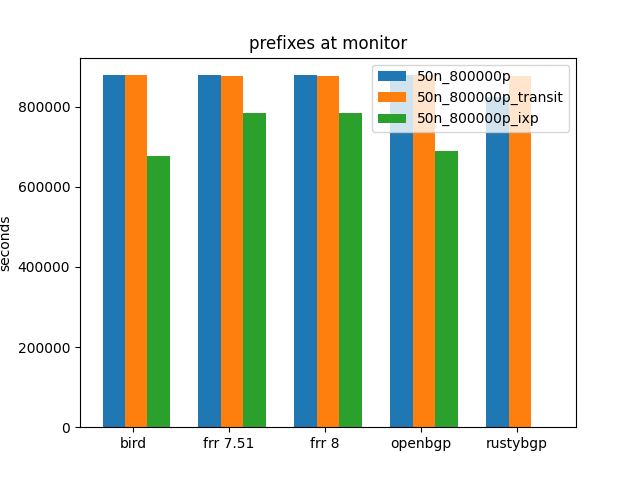
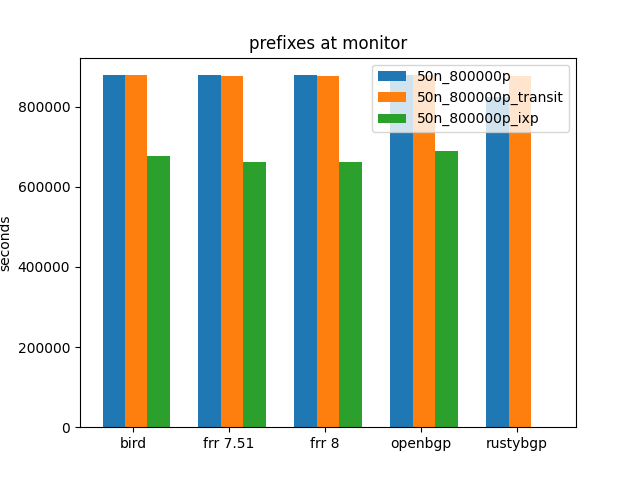
updateing bgp filtering with updated filters for frr so that output matches.

Changed region(s): [[0.375, 0.2188, 0.4375, 0.3438], [0.5312, 0.2188, 0.5625, 0.3438]]

diff --git a/_drafts/2021-11-102-bgperf-first-try-at-filtering.md b/_drafts/2021-11-102-bgperf-first-try-at-filtering.md
@@ -15,9 +15,9 @@ description: First results of testing of filter with BGP stacks to get feedback.
 
 The number one request I get for BGP Performance testing is to do filtering testing. There are several difficulties with this, and I'll discuss them below, but that is why I've put it off so long. I have some results and I'd like to see what the audience thinks about the testing methodology and if it provides the visibility that we are all hoping for.
 
-I need help. Is this the right way to represent filtering for these platforms?
+I'm not sure that what I've created tests filtering in the way that people want to see, so I'm producing results now in the hope of getting some feedback to make things better.
 
-Obviously one of the problems is trying to create filtering that can be used across all platforms and will be representative of what people are actually using. I started with https://bgpfilterguide.nlnog.net. I'm currently only using two filters that are mostly the same. The first, called "transit", is the filter that you would use if the peer was transit, and the other is called "ixp" if your peer was in your IXP. The difference between the two is that the ixp filter filters our transit ASNs. 
+Obviously one of the problems is trying to create filtering that can be used across all platforms and will be representative of what people are actually using. I started with https://bgpfilterguide.nlnog.net; below I have pointers to the specific filters I'm using. I'm currently only using two filters that are mostly the same. The first, called "transit", is the filter that you would use if the peer was transit, and the other is called "ixp" if your peer was in your IXP. The difference between the two is that the ixp filter filters our transit ASNs. 
 
 Just to refresh how to read the key: "20n_800000p_transit" means 20 neighbors, 800000 prefixes per neighbor and it's using the transit filter.
 
@@ -57,15 +57,15 @@ As discussed, I started with https://bgpfilterguide.nlnog.net and I've tried to 
 
 Of course, you have to match traffic with filters to see if they work.
 
-### not all BGP stacks filter the same
+### What filters am I using
 
-As far as I can tell, the filters for BIRD, FRRouting and OpenBGPD should be the same, so why are there different amounts of prefixes filtered? I have no idea. Please tell me if I'm dong something wrong.
 
 To look at the filters used:
 * [BIRD](https://github.com/jopietsch/bgperf/blob/490452fe947c94f9eb87e4f45bb789514f6e11b1/filters/bird.conf)
-* [FRRouting](https://github.com/jopietsch/bgperf/blob/490452fe947c94f9eb87e4f45bb789514f6e11b1/filters/frr.conf)
+* [FRRouting](https://github.com/jopietsch/bgperf/blob/49dcf42868dc88cb65f95924c28d4b25cf8ba5b0/filters/frr.conf)
+
 * [OpenBGPD](https://github.com/jopietsch/bgperf/blob/490452fe947c94f9eb87e4f45bb789514f6e11b1/filters/openbgp.conf)
-* [RustyBGPD](https://github.com/jopietsch/bgperf/blob/490452fe947c94f9eb87e4f45bb789514f6e11b1/filters/rustybgpd.conf)
+* [RustyBGPD](https://github.com/jopietsch/bgperf/blob/6af19e343633c76e9c00f825d69fa91920d3a9b9/filters/rustybgpd.conf)
 
 You might notice that I've commented out filtering of 0.0.0.0/8 and > /24 filtering. That is so that I could do the BIRD-generator tests with small number of prefixes. It generates prefixes in that range, so they'd all get removed which isn't interesting.
 
@@ -74,9 +74,9 @@ For the tests with the BIRD-generator, while the "ixp" filter still filtered out
 
 
 ### How to count all received prefixes
-Ok, this is one of the trickiest pieces here, but we have to get to how BGPerf works and how it decides that a benchmark run is done. There are three main groups of containers: target, tester (which with bgpdump is more than one container), and monitor. The monitor sends no prefixes, it is used to measure prefixes being sent. 
+This is one of the trickiest pieces here, but I need to explain how BGPerf works and how it decides that a benchmark test is done. There are three main groups of containers: target, tester (when using bgpdump it is more than one container), and monitor. The monitor sends no prefixes, it is used to measure prefixes being sent. 
 
-When I fork BGPerf, it decided a test done after the monitor had received the expected number of prefixes. Because different BGP stacks receive and send routes in different order, I changed it so that on the target it needed to have received the expected number of prefixes from each tester and still that it has received all the prefixes at the monitor.
+When I forked BGPerf, it decided a test was done after the monitor had received the expected number of prefixes. Because different BGP stacks receive and send routes in different order, I changed it so that on the target it needed to have received the expected number of prefixes from each tester and still that it has received all the prefixes at the monitor.
 
 Maybe you see the problem with filter testing: when filtering, we now don't know when all the prefixes that will be sent have been received because we don't know what will get filtered. So I needed to add a new counter that measures the amount of prefixes received at the target. However, this is tricky. While all BGP stacks will tell you how many prefixes it has received after filtering, few (I've only found BIRD so far), will also tell you how many were received before being filtered or rejected.
 
